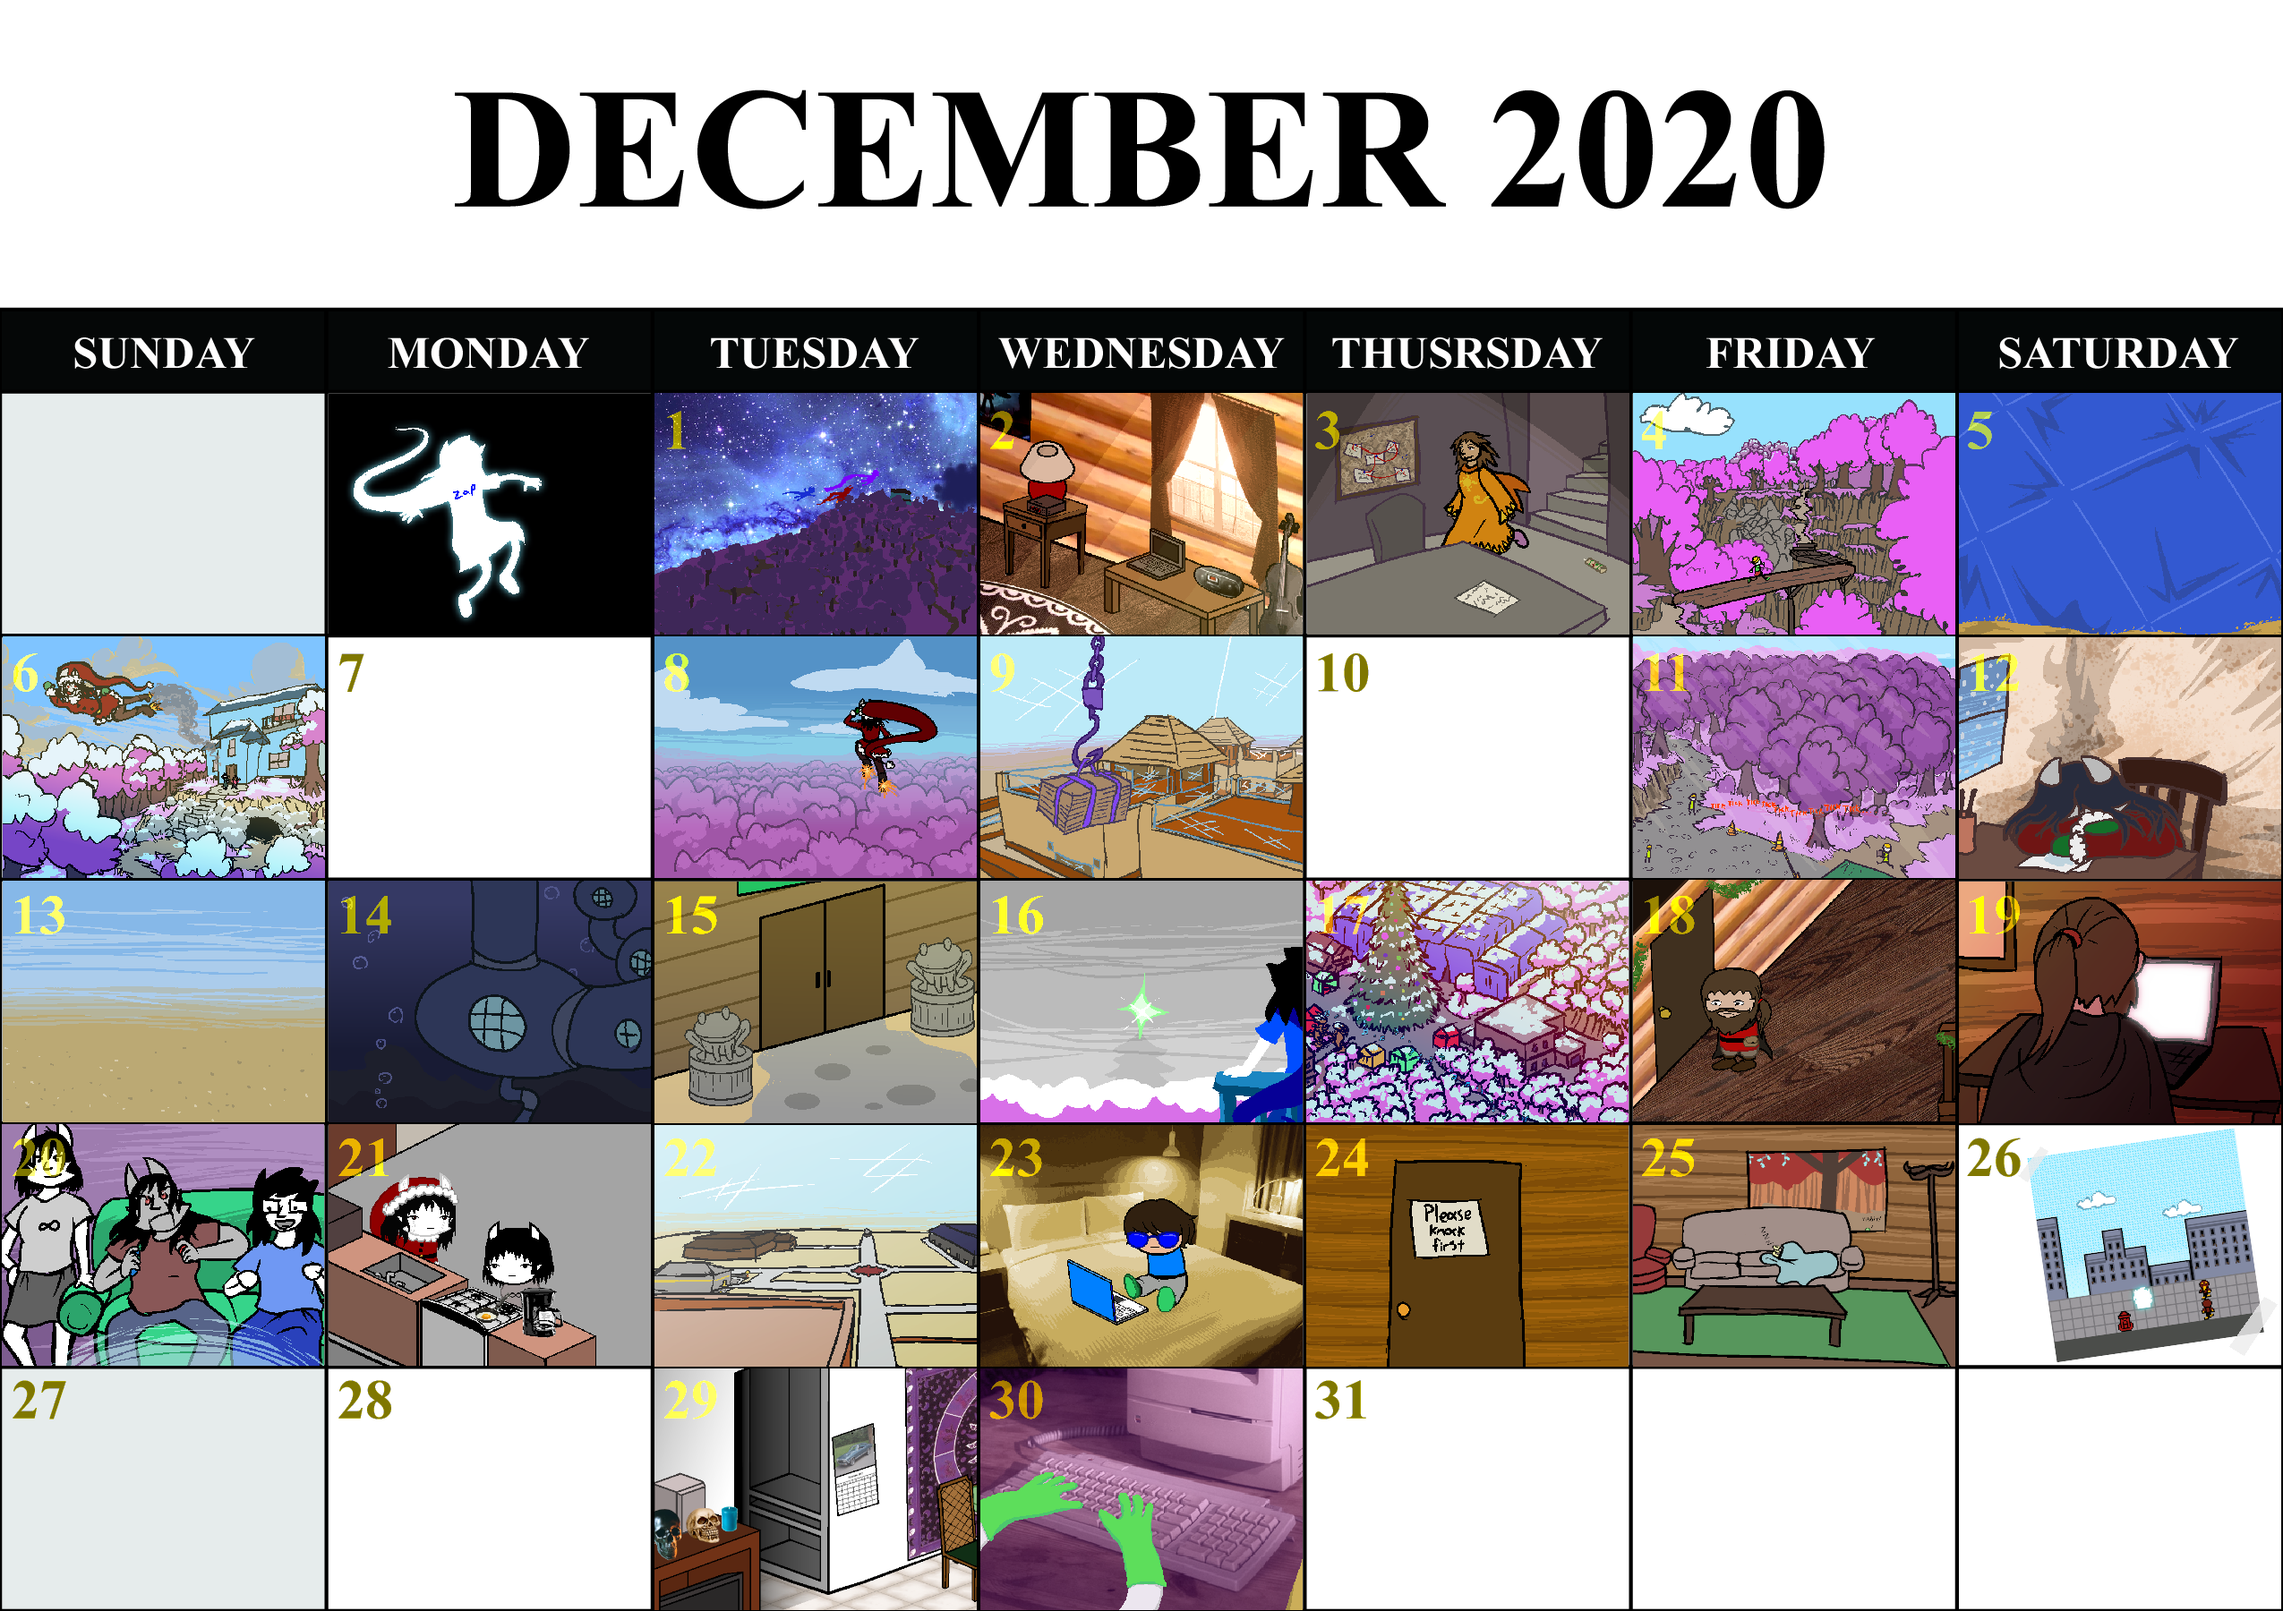
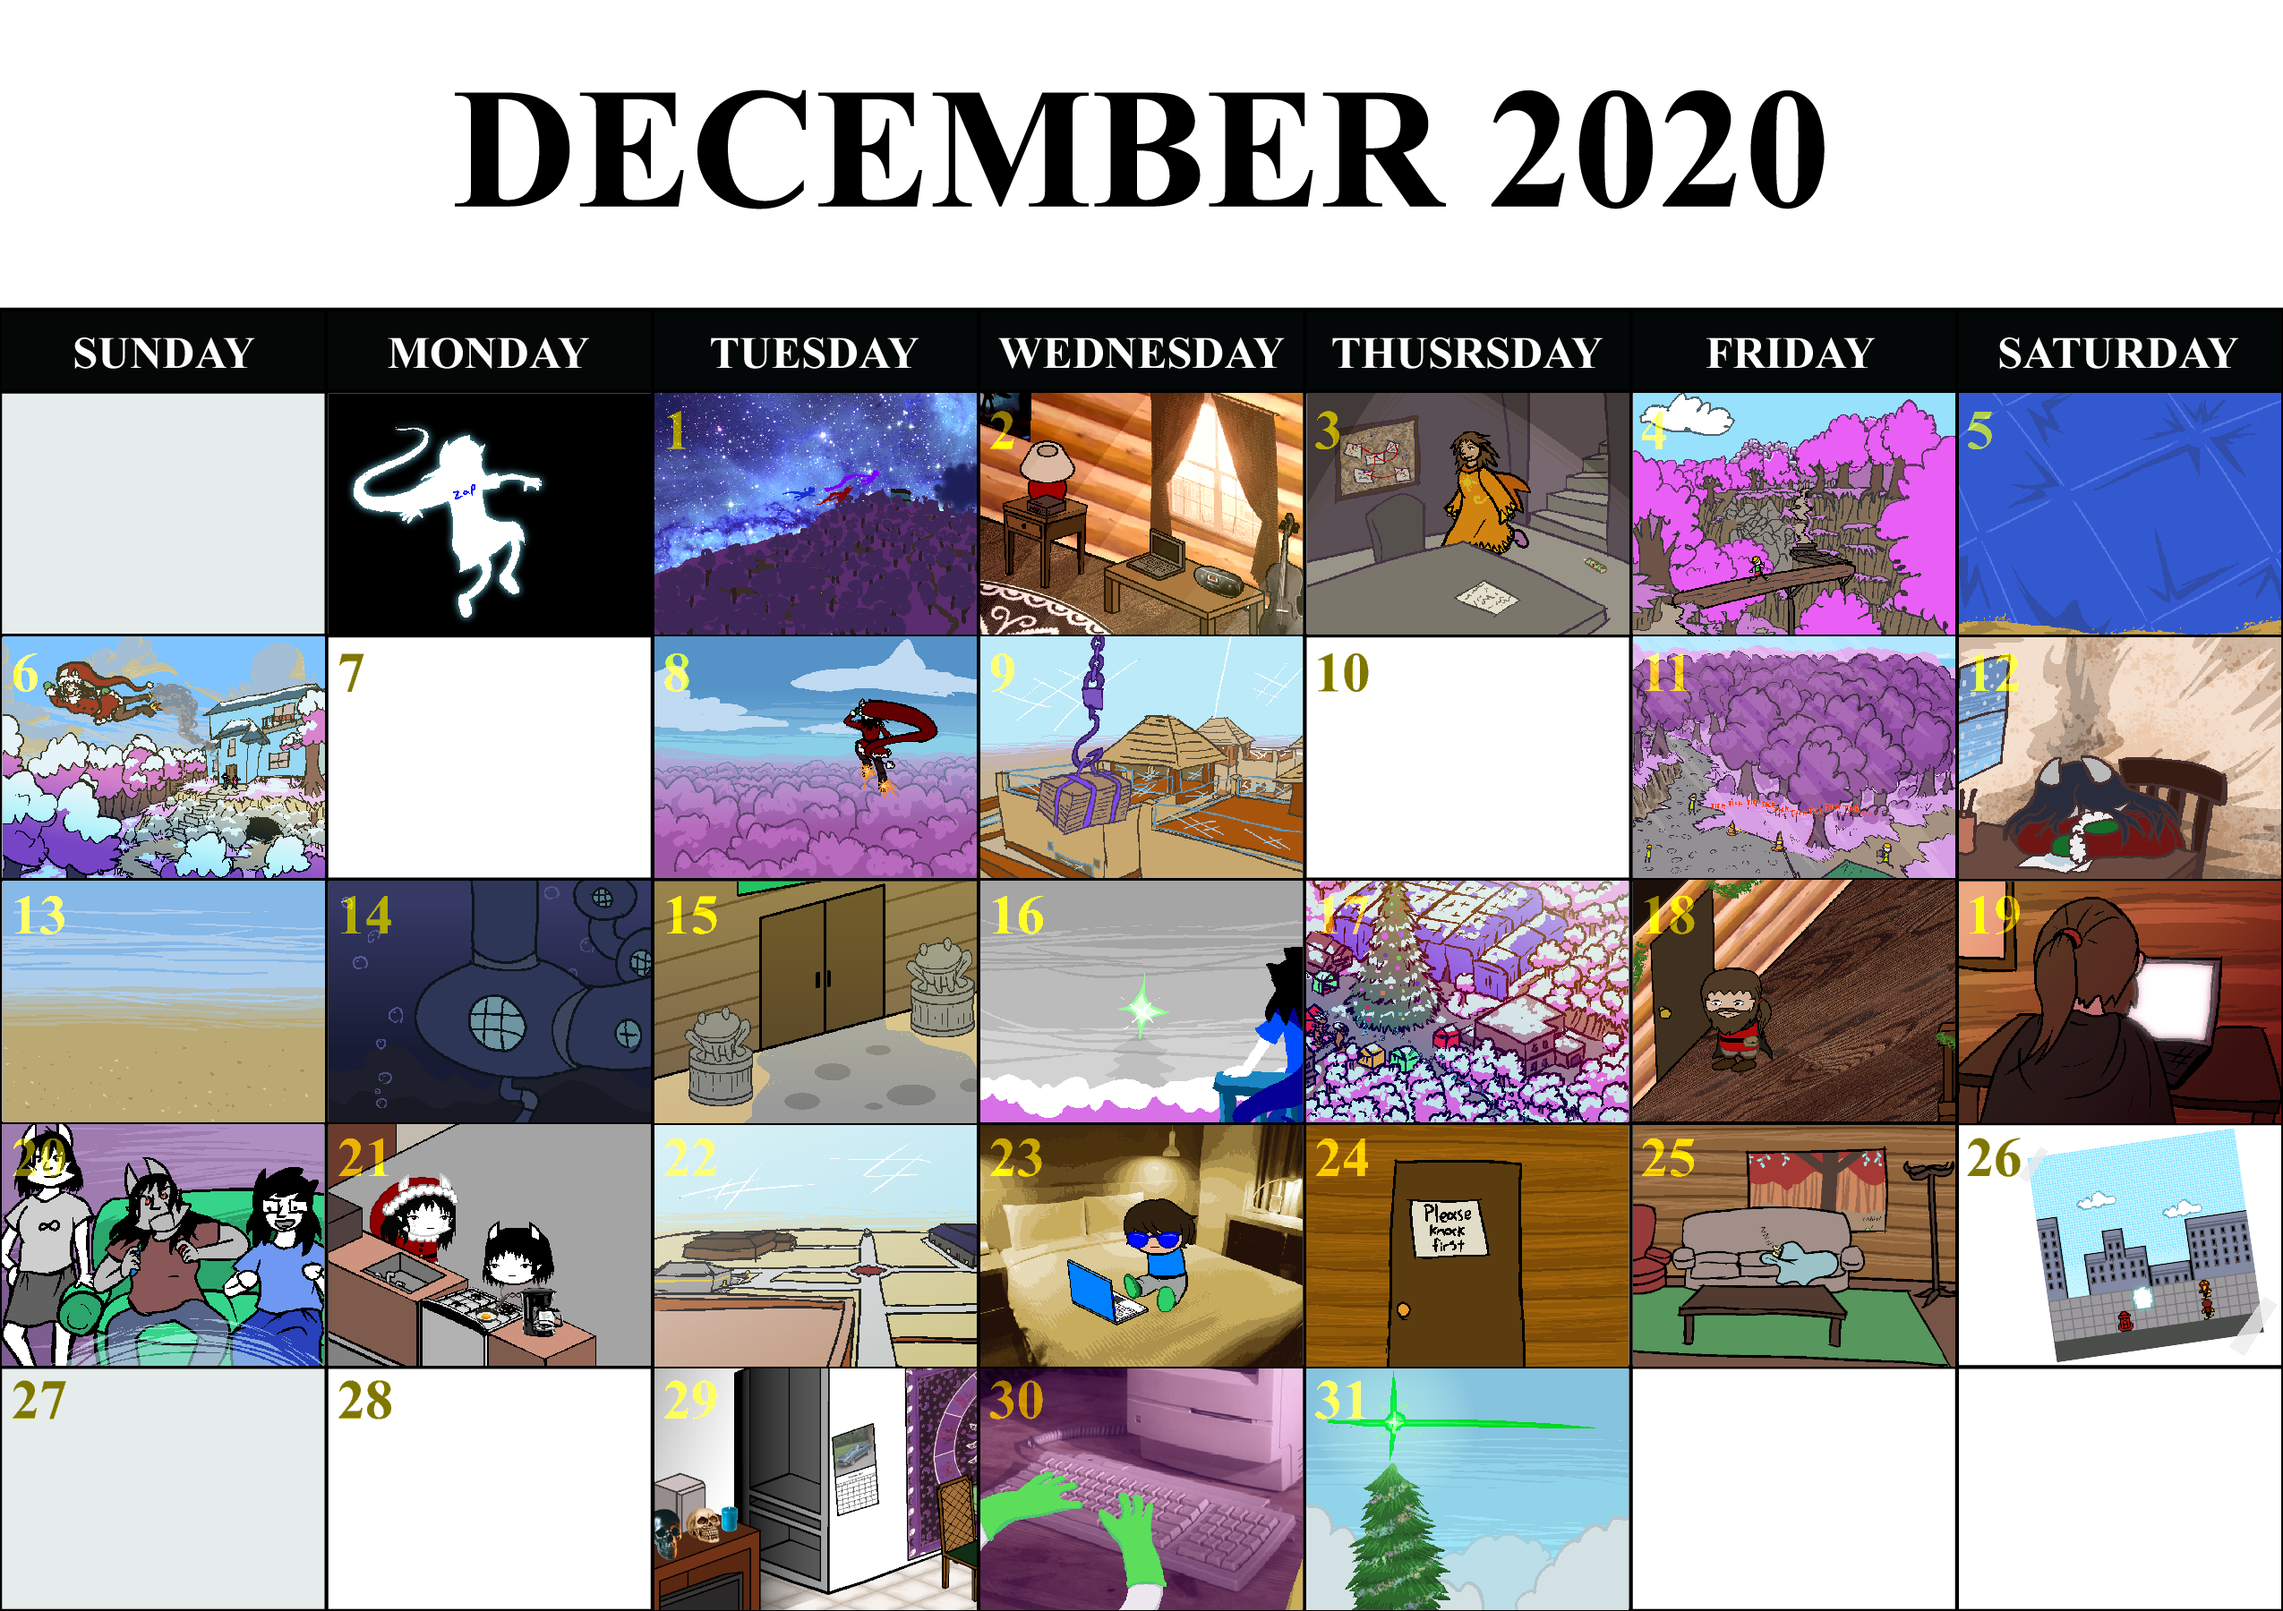
another day, another table of contents thing
New years ahead

Changed region(s): [[0.5576, 0.84, 0.7125, 1.0]]

diff --git a/dungeoncrashers/tablewebpage.html b/dungeoncrashers/tablewebpage.html
@@ -85,7 +85,8 @@ tr.thetop{   height: 17%;  }
 	</a></td>
     <td><a class="fullcell" target="_top"  alt="A hop and a skip (last leg of retcon route)" title="A hop and a skip (last leg of retcon route)" href="https://mspfa.com/?s=38989&p=978" >&nbsp; 
 	</a></td>
-    <td></td>
+    <td><a class="fullcell" target="_top"  alt="New Years Ahead" title="New Years Ahead" href="https://mspfa.com/?s=38989&p=1275" >&nbsp; 
+	</a></td>
   </tr>
   <tr>
     <td></td>
